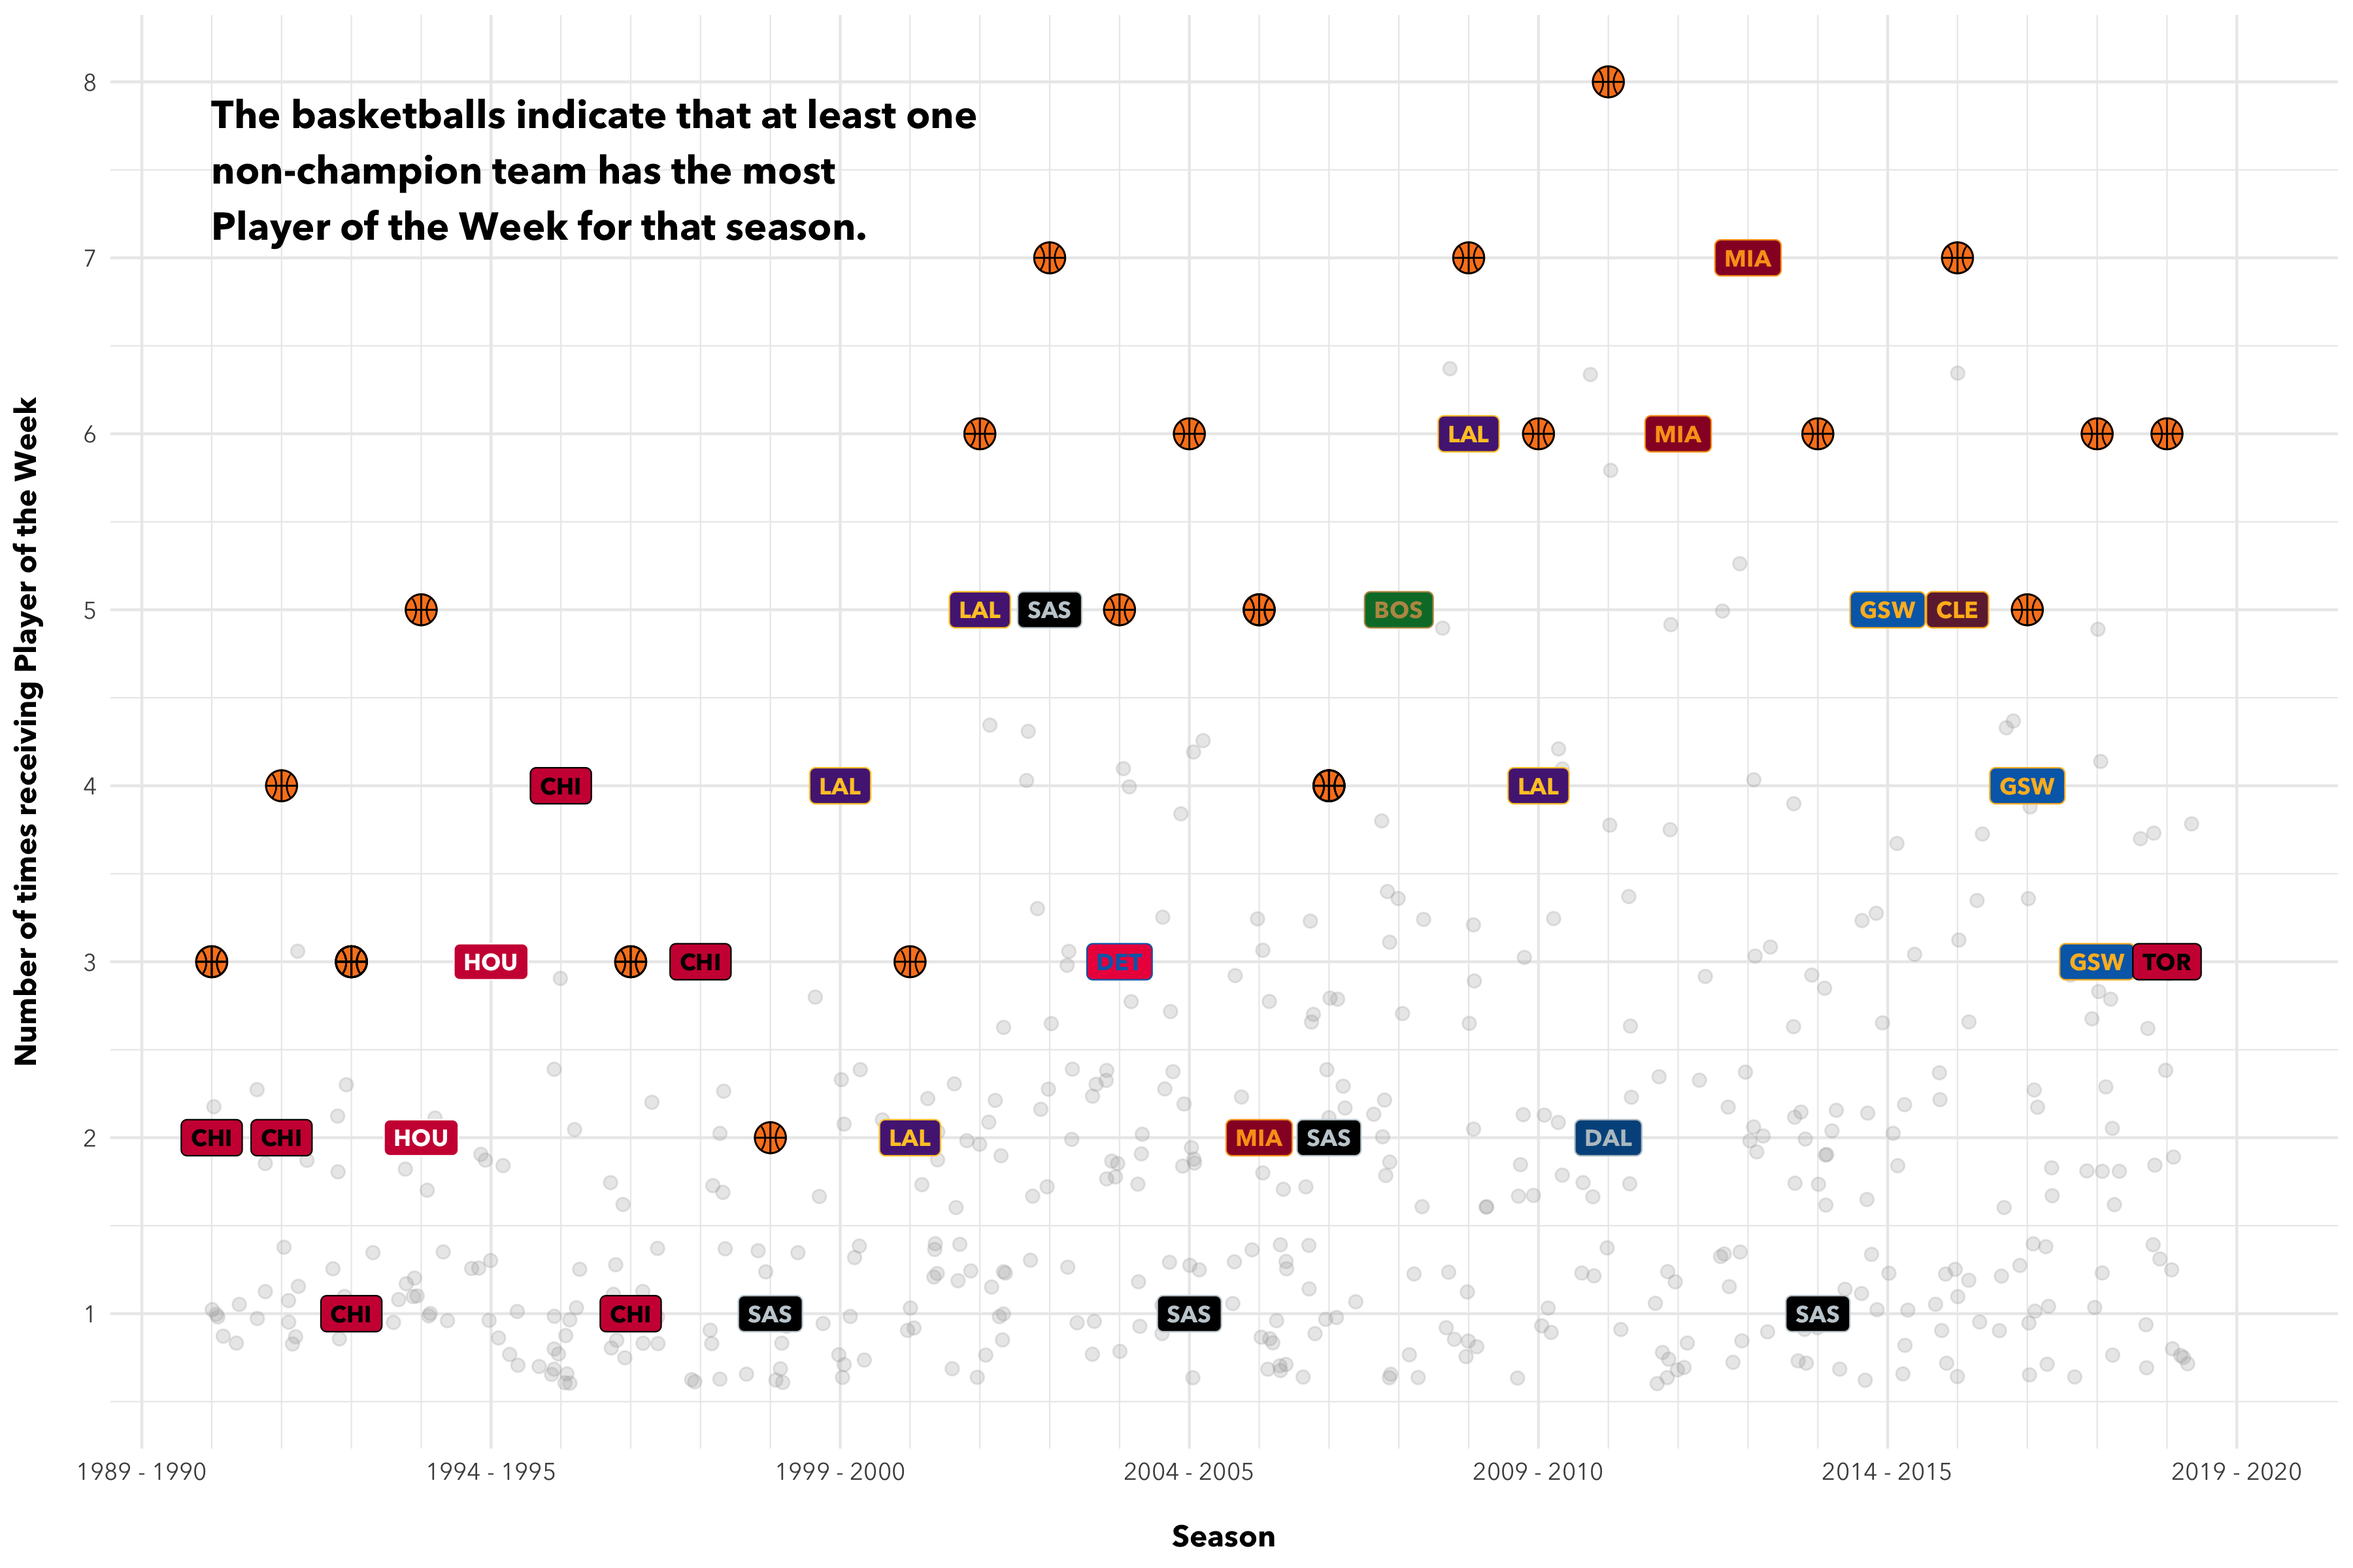
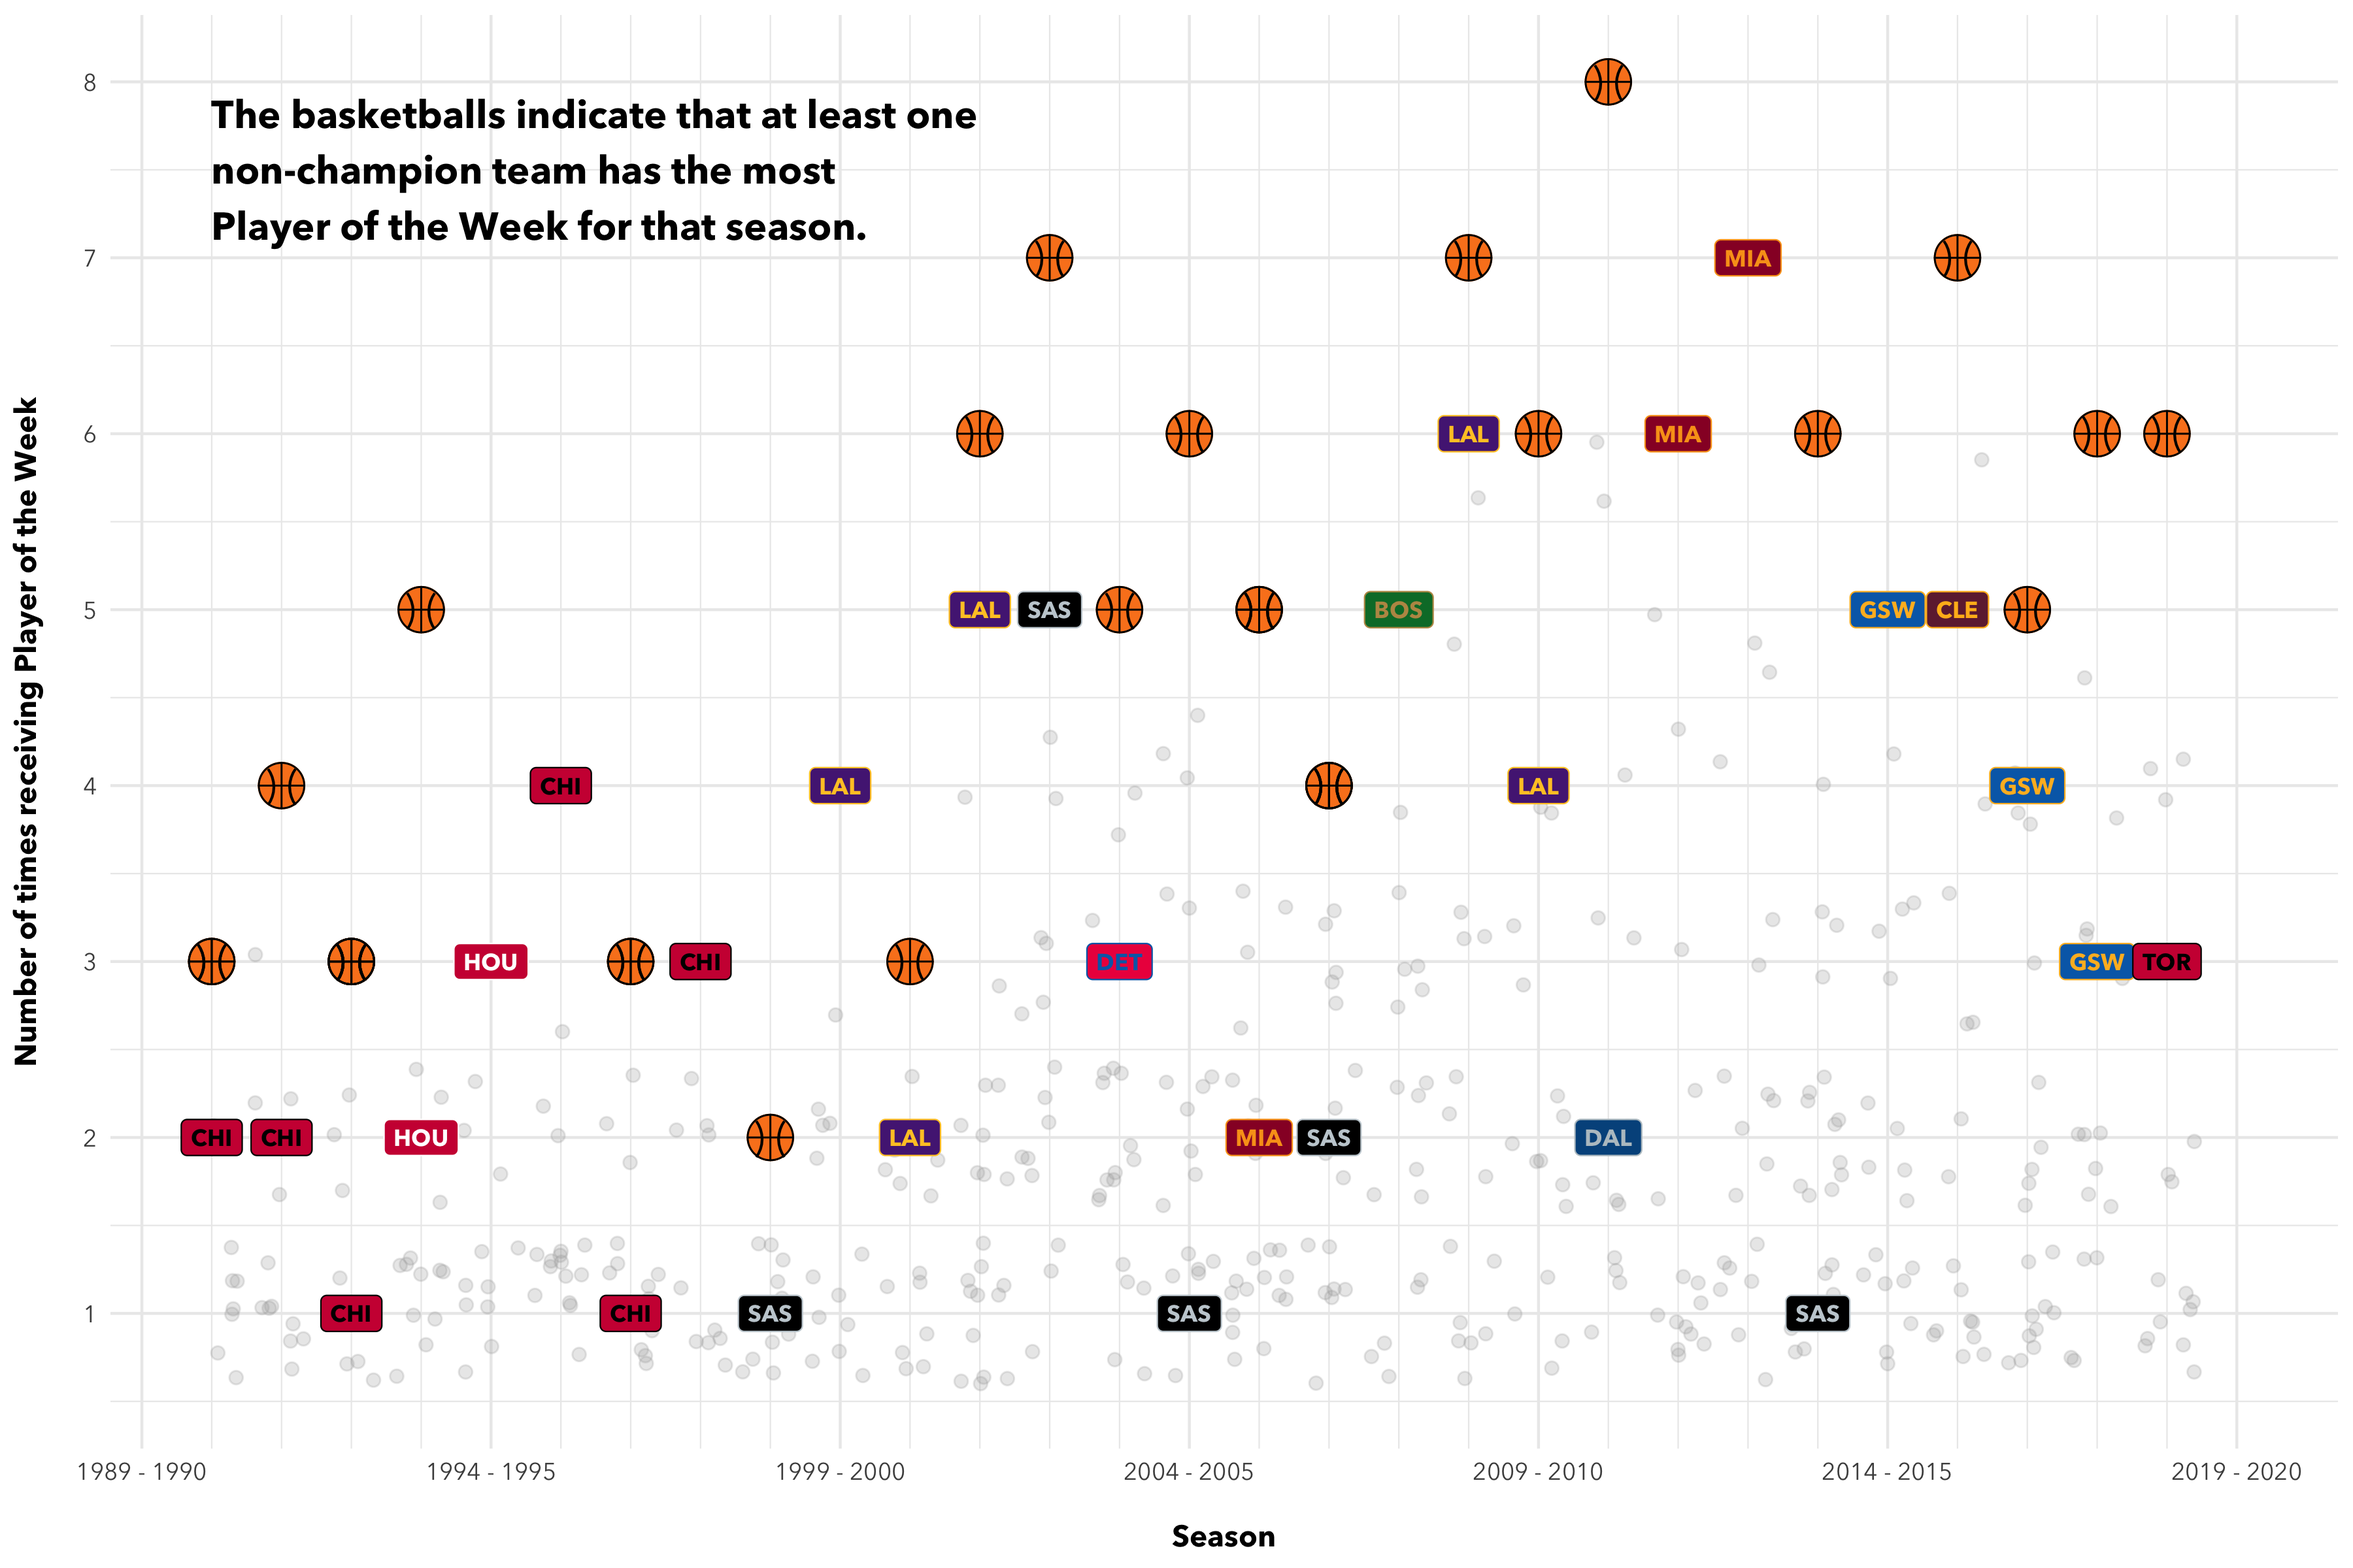
Update ggplot 3

diff --git a/html/_ggplot_3.html b/html/_ggplot_3.html
@@ -13368,7 +13368,7 @@ div#notebook {
 <div class="cell border-box-sizing text_cell rendered"><div class="prompt input_prompt">
 </div><div class="inner_cell">
 <div class="text_cell_render border-box-sizing rendered_html">
-<p>Add the Abbreviation for the champion team name</p>
+<p>Filter non-champion teams that has the same number of POTW as the champion team for the season</p>
 
 </div>
 </div>
@@ -13376,6 +13376,30 @@ div#notebook {
 <div class="cell border-box-sizing code_cell rendered">
 <div class="input">
 <div class="prompt input_prompt">In&nbsp;[13]:</div>
+<div class="inner_cell">
+    <div class="input_area">
+<div class=" highlight hl-ipython3"><pre><span></span><span class="n">nba_champ_potw</span> <span class="o">=</span> <span class="n">nba_champ</span><span class="p">[[</span><span class="s1">&#39;Year&#39;</span><span class="p">,</span> <span class="s1">&#39;Potw_Count&#39;</span><span class="p">]]</span><span class="o">.</span><span class="n">assign</span><span class="p">(</span><span class="n">isSameMaxPotw</span> <span class="o">=</span> <span class="s1">&#39;Yes&#39;</span><span class="p">)</span>
+<span class="n">nba_nonchamp_potw</span> <span class="o">=</span> <span class="n">pd</span><span class="o">.</span><span class="n">merge</span><span class="p">(</span><span class="n">nba_nonchamp_maxpotw</span><span class="p">,</span> <span class="n">nba_champ_potw</span><span class="p">,</span> <span class="n">on</span> <span class="o">=</span> <span class="p">[</span><span class="s1">&#39;Year&#39;</span><span class="p">,</span> <span class="s1">&#39;Potw_Count&#39;</span><span class="p">],</span> <span class="n">how</span> <span class="o">=</span> <span class="s1">&#39;left&#39;</span><span class="p">)</span>
+<span class="n">nba_nonchamp_potw</span><span class="o">.</span><span class="n">isSameMaxPotw</span> <span class="o">=</span> <span class="n">nba_nonchamp_potw</span><span class="o">.</span><span class="n">isSameMaxPotw</span><span class="o">.</span><span class="n">where</span><span class="p">((</span><span class="n">pd</span><span class="o">.</span><span class="n">notnull</span><span class="p">(</span><span class="n">nba_nonchamp_potw</span><span class="o">.</span><span class="n">isSameMaxPotw</span><span class="p">)),</span> <span class="s1">&#39;No&#39;</span><span class="p">)</span>
+<span class="n">nba_nonchamp_potw</span> <span class="o">=</span> <span class="n">nba_nonchamp_potw</span><span class="o">.</span><span class="n">loc</span><span class="p">[(</span><span class="n">nba_nonchamp_potw</span><span class="o">.</span><span class="n">isSameMaxPotw</span> <span class="o">==</span> <span class="s1">&#39;No&#39;</span><span class="p">)]</span>
+</pre></div>
+
+    </div>
+</div>
+</div>
+
+</div>
+<div class="cell border-box-sizing text_cell rendered"><div class="prompt input_prompt">
+</div><div class="inner_cell">
+<div class="text_cell_render border-box-sizing rendered_html">
+<p>Add the Abbreviation for the champion team name</p>
+
+</div>
+</div>
+</div>
+<div class="cell border-box-sizing code_cell rendered">
+<div class="input">
+<div class="prompt input_prompt">In&nbsp;[14]:</div>
 <div class="inner_cell">
     <div class="input_area">
 <div class=" highlight hl-ipython3"><pre><span></span><span class="n">nba_Abb</span> <span class="o">=</span> <span class="n">pd</span><span class="o">.</span><span class="n">read_csv</span><span class="p">(</span><span class="s1">&#39;../data/scraped/NBA_Teams_Abb.csv&#39;</span><span class="p">)</span><span class="o">.</span><span class="n">rename</span><span class="p">(</span><span class="n">columns</span> <span class="o">=</span> <span class="p">{</span><span class="s1">&#39;Franchise&#39;</span><span class="p">:</span> <span class="s1">&#39;Team&#39;</span><span class="p">})</span>
@@ -13397,11 +13421,11 @@ div#notebook {
 </div>
 <div class="cell border-box-sizing code_cell rendered">
 <div class="input">
-<div class="prompt input_prompt">In&nbsp;[14]:</div>
+<div class="prompt input_prompt">In&nbsp;[15]:</div>
 <div class="inner_cell">
     <div class="input_area">
 <div class=" highlight hl-ipython3"><pre><span></span><span class="o">%</span><span class="k">R</span> -i nba_champ
-<span class="o">%</span><span class="k">R</span> -i nba_nonchamp_maxpotw
+<span class="o">%</span><span class="k">R</span> -i nba_nonchamp_potw
 <span class="o">%</span><span class="k">R</span> -i nba_nonchamp_nonpotw
 <span class="o">%</span><span class="k">R</span> -i nba_ggplot_color
 <span class="o">%</span><span class="k">R</span> -i nba_ggplot_fill
@@ -13422,7 +13446,7 @@ div#notebook {
 </div>
 <div class="cell border-box-sizing code_cell rendered">
 <div class="input">
-<div class="prompt input_prompt">In&nbsp;[15]:</div>
+<div class="prompt input_prompt">In&nbsp;[16]:</div>
 <div class="inner_cell">
     <div class="input_area">
 <div class=" highlight hl-ipython3"><pre><span></span><span class="o">%%</span><span class="n">R</span> <span class="o">-</span><span class="n">w</span> <span class="m">12</span> <span class="o">-</span><span class="n">h</span> <span class="m">8</span> <span class="o">--</span><span class="n">units</span> <span class="n">in</span> <span class="o">-</span><span class="n">r</span> <span class="m">300</span>
@@ -13433,10 +13457,10 @@ div#notebook {
 <span class="n">annotate_msg</span> <span class="o">&lt;-</span> <span class="s">&#39;The basketballs indicate that at least one\nnon-champion team has the most\nPlayer of the Week for that season.&#39;</span>
 
 <span class="nf">ggplot</span><span class="p">()</span> <span class="o">+</span>
-<span class="nf">geom_point</span><span class="p">(</span><span class="nf">aes</span><span class="p">(</span><span class="n">x</span> <span class="o">=</span> <span class="n">Year</span><span class="p">,</span> <span class="n">y</span> <span class="o">=</span> <span class="n">Potw_Count</span><span class="p">),</span> <span class="n">data</span> <span class="o">=</span> <span class="n">nba_nonchamp_maxpotw</span><span class="p">,</span> <span class="n">color</span> <span class="o">=</span> <span class="s">&#39;#FA8320&#39;</span><span class="p">,</span> <span class="n">size</span> <span class="o">=</span> <span class="m">5</span><span class="p">)</span> <span class="o">+</span>
-<span class="nf">geom_point</span><span class="p">(</span><span class="nf">aes</span><span class="p">(</span><span class="n">x</span> <span class="o">=</span> <span class="n">Year</span><span class="p">,</span> <span class="n">y</span> <span class="o">=</span> <span class="n">Potw_Count</span><span class="p">),</span> <span class="n">data</span> <span class="o">=</span> <span class="n">nba_nonchamp_maxpotw</span><span class="p">,</span> <span class="n">size</span> <span class="o">=</span> <span class="m">5</span><span class="p">,</span> <span class="n">shape</span> <span class="o">=</span> <span class="m">10</span><span class="p">)</span> <span class="o">+</span>
-<span class="nf">geom_text</span><span class="p">(</span><span class="nf">aes</span><span class="p">(</span><span class="n">x</span> <span class="o">=</span> <span class="n">Year</span><span class="p">,</span> <span class="n">y</span> <span class="o">=</span> <span class="n">Potw_Count</span><span class="p">,</span> <span class="n">label</span> <span class="o">=</span> <span class="s">&#39;) (&#39;</span><span class="p">),</span> <span class="n">data</span> <span class="o">=</span> <span class="n">nba_nonchamp_maxpotw</span><span class="p">,</span>
-          <span class="n">size</span> <span class="o">=</span> <span class="m">3.5</span><span class="p">,</span> <span class="n">nudge_x</span> <span class="o">=</span> <span class="m">0.005</span><span class="p">,</span> <span class="n">nudge_y</span> <span class="o">=</span> <span class="m">0.01</span><span class="p">,</span> <span class="n">family</span> <span class="o">=</span> <span class="s">&#39;Avenir Next&#39;</span><span class="p">)</span> <span class="o">+</span>
+<span class="nf">geom_point</span><span class="p">(</span><span class="nf">aes</span><span class="p">(</span><span class="n">x</span> <span class="o">=</span> <span class="n">Year</span><span class="p">,</span> <span class="n">y</span> <span class="o">=</span> <span class="n">Potw_Count</span><span class="p">),</span> <span class="n">data</span> <span class="o">=</span> <span class="n">nba_nonchamp_potw</span><span class="p">,</span> <span class="n">color</span> <span class="o">=</span> <span class="s">&#39;#FA8320&#39;</span><span class="p">,</span> <span class="n">size</span> <span class="o">=</span> <span class="m">7.5</span><span class="p">)</span> <span class="o">+</span>
+<span class="nf">geom_point</span><span class="p">(</span><span class="nf">aes</span><span class="p">(</span><span class="n">x</span> <span class="o">=</span> <span class="n">Year</span><span class="p">,</span> <span class="n">y</span> <span class="o">=</span> <span class="n">Potw_Count</span><span class="p">),</span> <span class="n">data</span> <span class="o">=</span> <span class="n">nba_nonchamp_potw</span><span class="p">,</span> <span class="n">size</span> <span class="o">=</span> <span class="m">7.5</span><span class="p">,</span> <span class="n">shape</span> <span class="o">=</span> <span class="m">10</span><span class="p">)</span> <span class="o">+</span>
+<span class="nf">geom_text</span><span class="p">(</span><span class="nf">aes</span><span class="p">(</span><span class="n">x</span> <span class="o">=</span> <span class="n">Year</span><span class="p">,</span> <span class="n">y</span> <span class="o">=</span> <span class="n">Potw_Count</span><span class="p">,</span> <span class="n">label</span> <span class="o">=</span> <span class="s">&#39;) (&#39;</span><span class="p">),</span> <span class="n">data</span> <span class="o">=</span> <span class="n">nba_nonchamp_potw</span><span class="p">,</span>
+          <span class="n">size</span> <span class="o">=</span> <span class="m">5.4</span><span class="p">,</span> <span class="n">nudge_x</span> <span class="o">=</span> <span class="m">0.005</span><span class="p">,</span> <span class="n">nudge_y</span> <span class="o">=</span> <span class="m">0.01</span><span class="p">,</span> <span class="n">family</span> <span class="o">=</span> <span class="s">&#39;Avenir Next&#39;</span><span class="p">)</span> <span class="o">+</span>
 <span class="nf">geom_point</span><span class="p">(</span><span class="nf">aes</span><span class="p">(</span><span class="n">x</span> <span class="o">=</span> <span class="n">Year</span><span class="p">,</span> <span class="n">y</span> <span class="o">=</span> <span class="n">Potw_Count</span><span class="p">),</span> <span class="n">data</span> <span class="o">=</span> <span class="n">nba_nonchamp_nonpotw</span><span class="p">,</span>
            <span class="n">color</span> <span class="o">=</span> <span class="s">&#39;darkgray&#39;</span><span class="p">,</span> <span class="n">size</span> <span class="o">=</span> <span class="m">2</span><span class="p">,</span> <span class="n">alpha</span> <span class="o">=</span> <span class="m">0.25</span><span class="p">,</span> <span class="n">position</span> <span class="o">=</span> <span class="s">&#39;jitter&#39;</span><span class="p">)</span> <span class="o">+</span>
 <span class="nf">geom_label</span><span class="p">(</span><span class="nf">aes</span><span class="p">(</span><span class="n">x</span> <span class="o">=</span> <span class="n">Year</span><span class="p">,</span> <span class="n">y</span> <span class="o">=</span> <span class="n">Potw_Count</span><span class="p">,</span> <span class="n">color</span> <span class="o">=</span> <span class="n">Team</span><span class="p">,</span> <span class="n">fill</span> <span class="o">=</span> <span class="n">Team</span><span class="p">,</span> <span class="n">label</span> <span class="o">=</span> <span class="n">Abb</span><span class="p">),</span>
